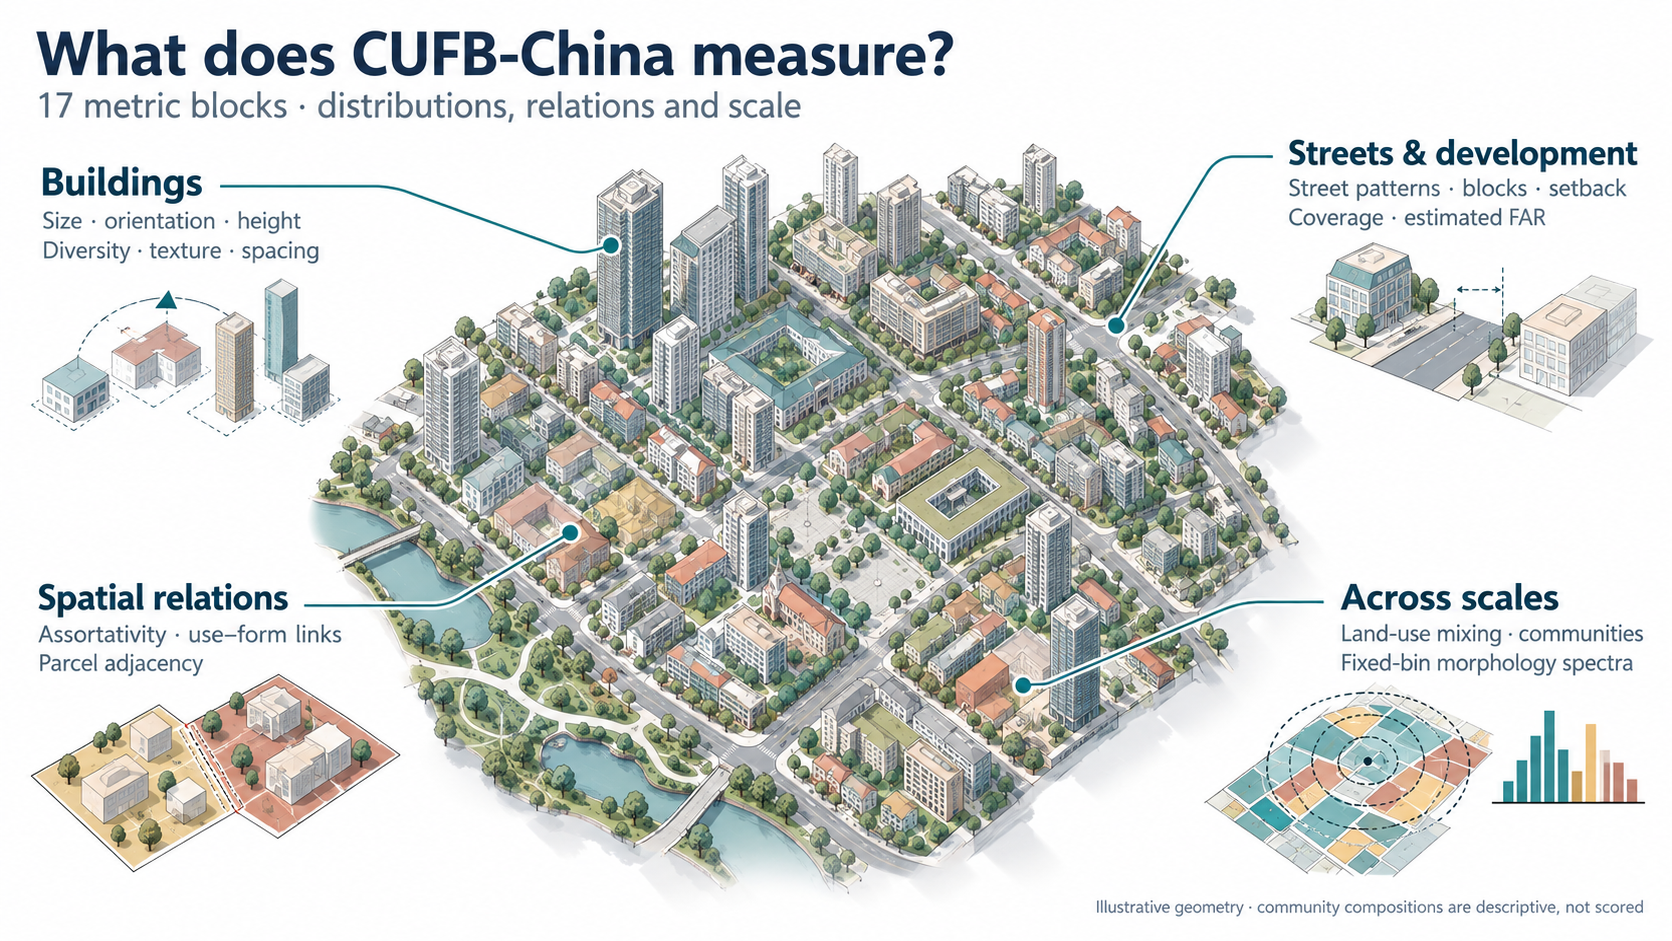
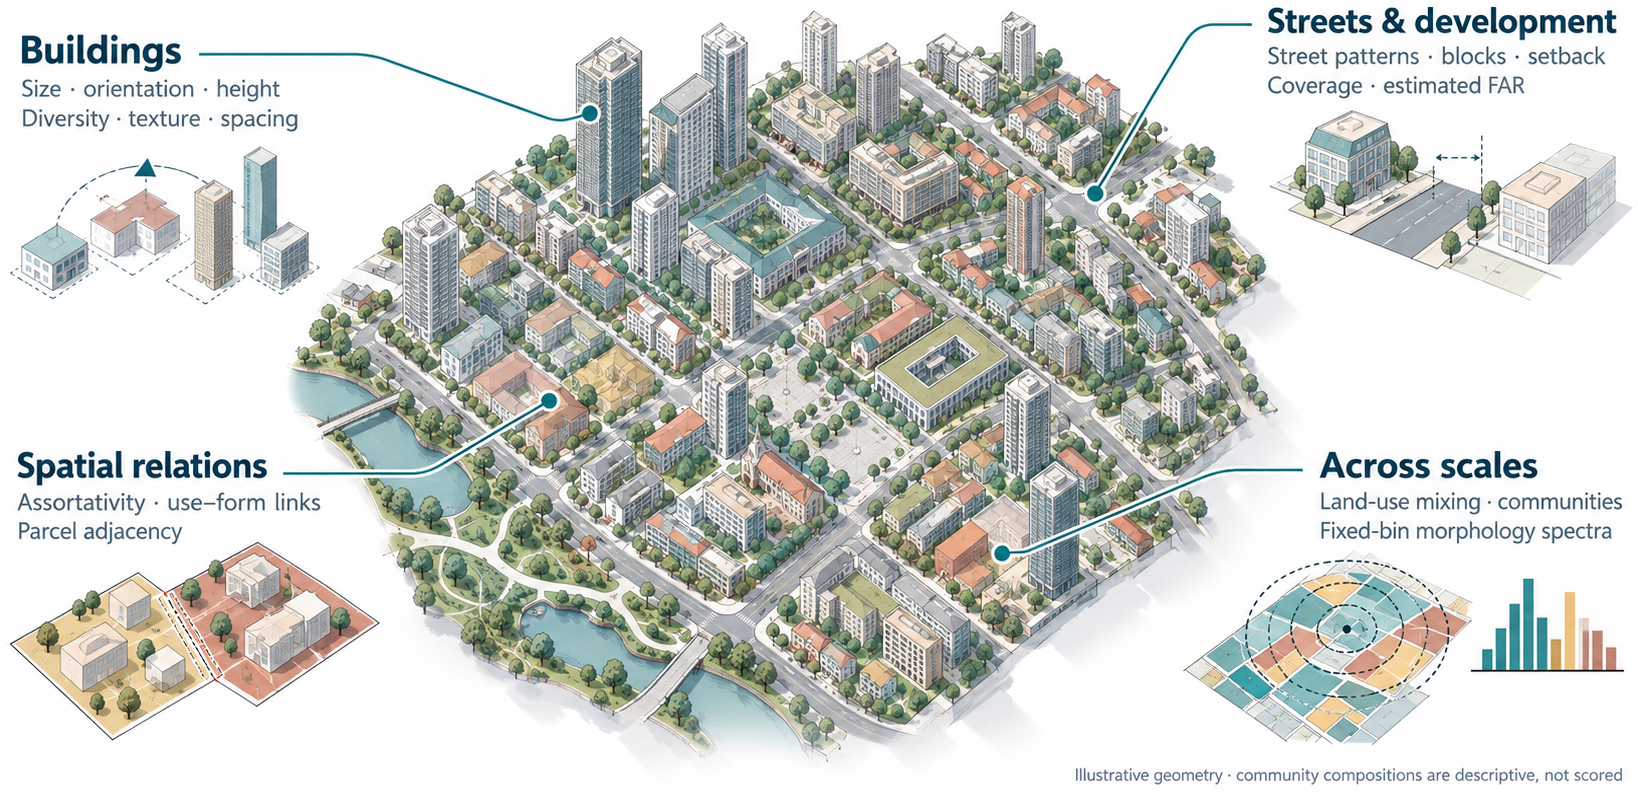
Update README and figures

diff --git a/README.md b/README.md
@@ -4,15 +4,18 @@
 
 CUFB-China (**China Urban-Form Benchmark**) combines buildings, land-use parcels and streets into a shared county-level representation. It describes how urban form varies across China and provides an interpretable protocol for identifying where a new layout departs from that reference.
 
+![CUFB-China overview: open inputs are partitioned into counties, analysed into urban-form metrics and aggregated into a national reference; new layouts enter the same analysis path for conformity scoring and failed-check diagnostics.](assets/overview.png)
+*Project overview. Geometries and percentile intervals are schematic. The reference describes observed Chinese county statistics; conformity does not measure urban quality.*
+
 **23.47M county-assigned building footprints · 2,399 reference counties · 17 metric blocks · 110 reference metric keys**
 
 - **Data descriptor:** *County-level urban form metrics and reference bounds for real and generated cities in China*, Scientific Data — **[TODO: final DOI and publication status]**.
 - **Data record:** county tables, reference bounds, starter county, benchmark cases and validation outputs, Figshare — **[TODO: final DOI]**.
 - **Software archive:** code release, Zenodo — **[TODO: final DOI]**.
 
-![CUFB-China overview: open inputs are partitioned into counties, analysed into urban-form metrics and aggregated into a national reference; new layouts enter the same analysis path for conformity scoring and failed-check diagnostics.](assets/overview.png)
 
-*Project overview. Geometries and percentile intervals are schematic. The reference describes observed Chinese county statistics; conformity does not measure urban quality.*
+
+
 
 ## What is CUFB-China?
 
@@ -269,13 +272,5 @@ python $B/fig_paper.py --out dataset/figures
 
 Analysis parameters are collected in `PARAMS` in `benchmark.py`. Override them with `--param key=value`; non-default values are recorded in `result.json["_params"]`. Random steps use fixed seeds. Comparisons with the released bounds should use the same metric definitions and parameters.
 
-## Citation and licence
-
-Please cite the data descriptor, data record and software archive using `CITATION.cff`, together with the upstream sources:
-
-- **CMAB:** Zhang, Zhao & Long (2025), *Scientific Data* 12, 430.
-- **EULUC-China 2.0:** Li et al. (2025), *Science Bulletin* 70, 3029–3041.
-- **OpenStreetMap:** OpenStreetMap contributors.
-- **CTAmap:** Rui, Zhang & Chen (2025), *Proc. SPIE* 13565.
-
+## Licence
 Code is released under the **MIT licence** (`LICENSE`). Derived tables in the data record use **CC BY 4.0**; redistributed OpenStreetMap geometry remains under **ODbL 1.0**, and other redistributed geometry retains the applicable upstream terms. See the data record’s `LICENSE` for details.
